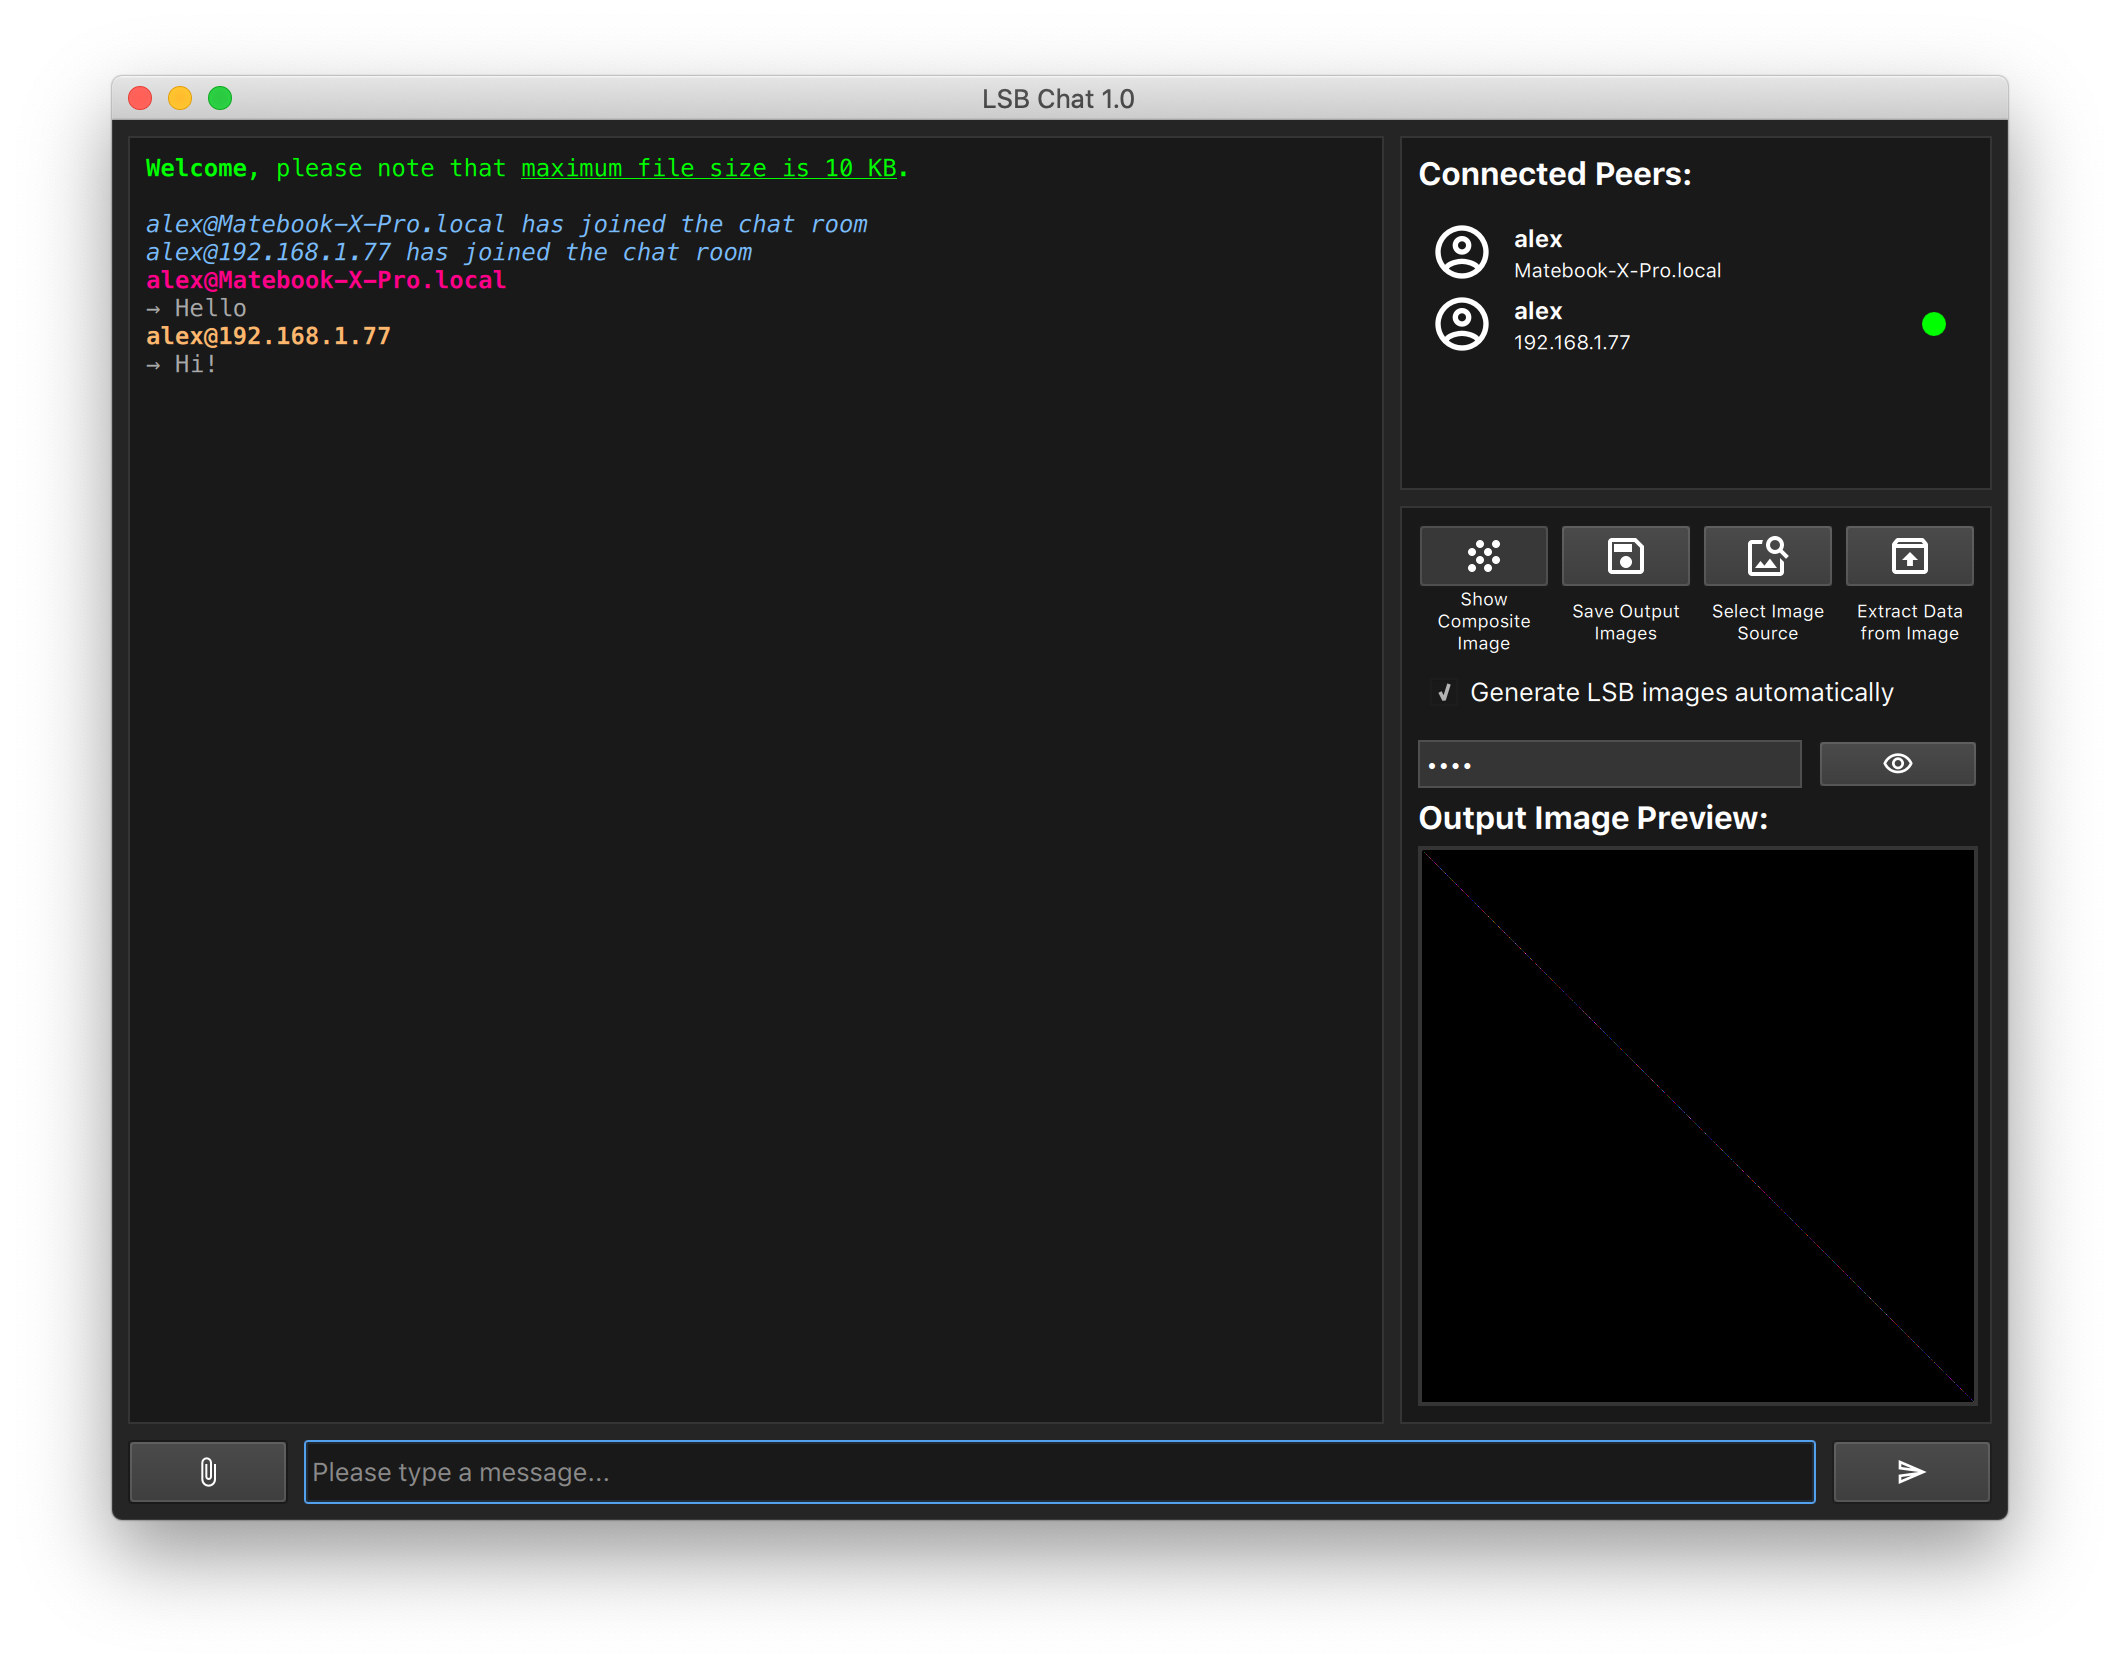
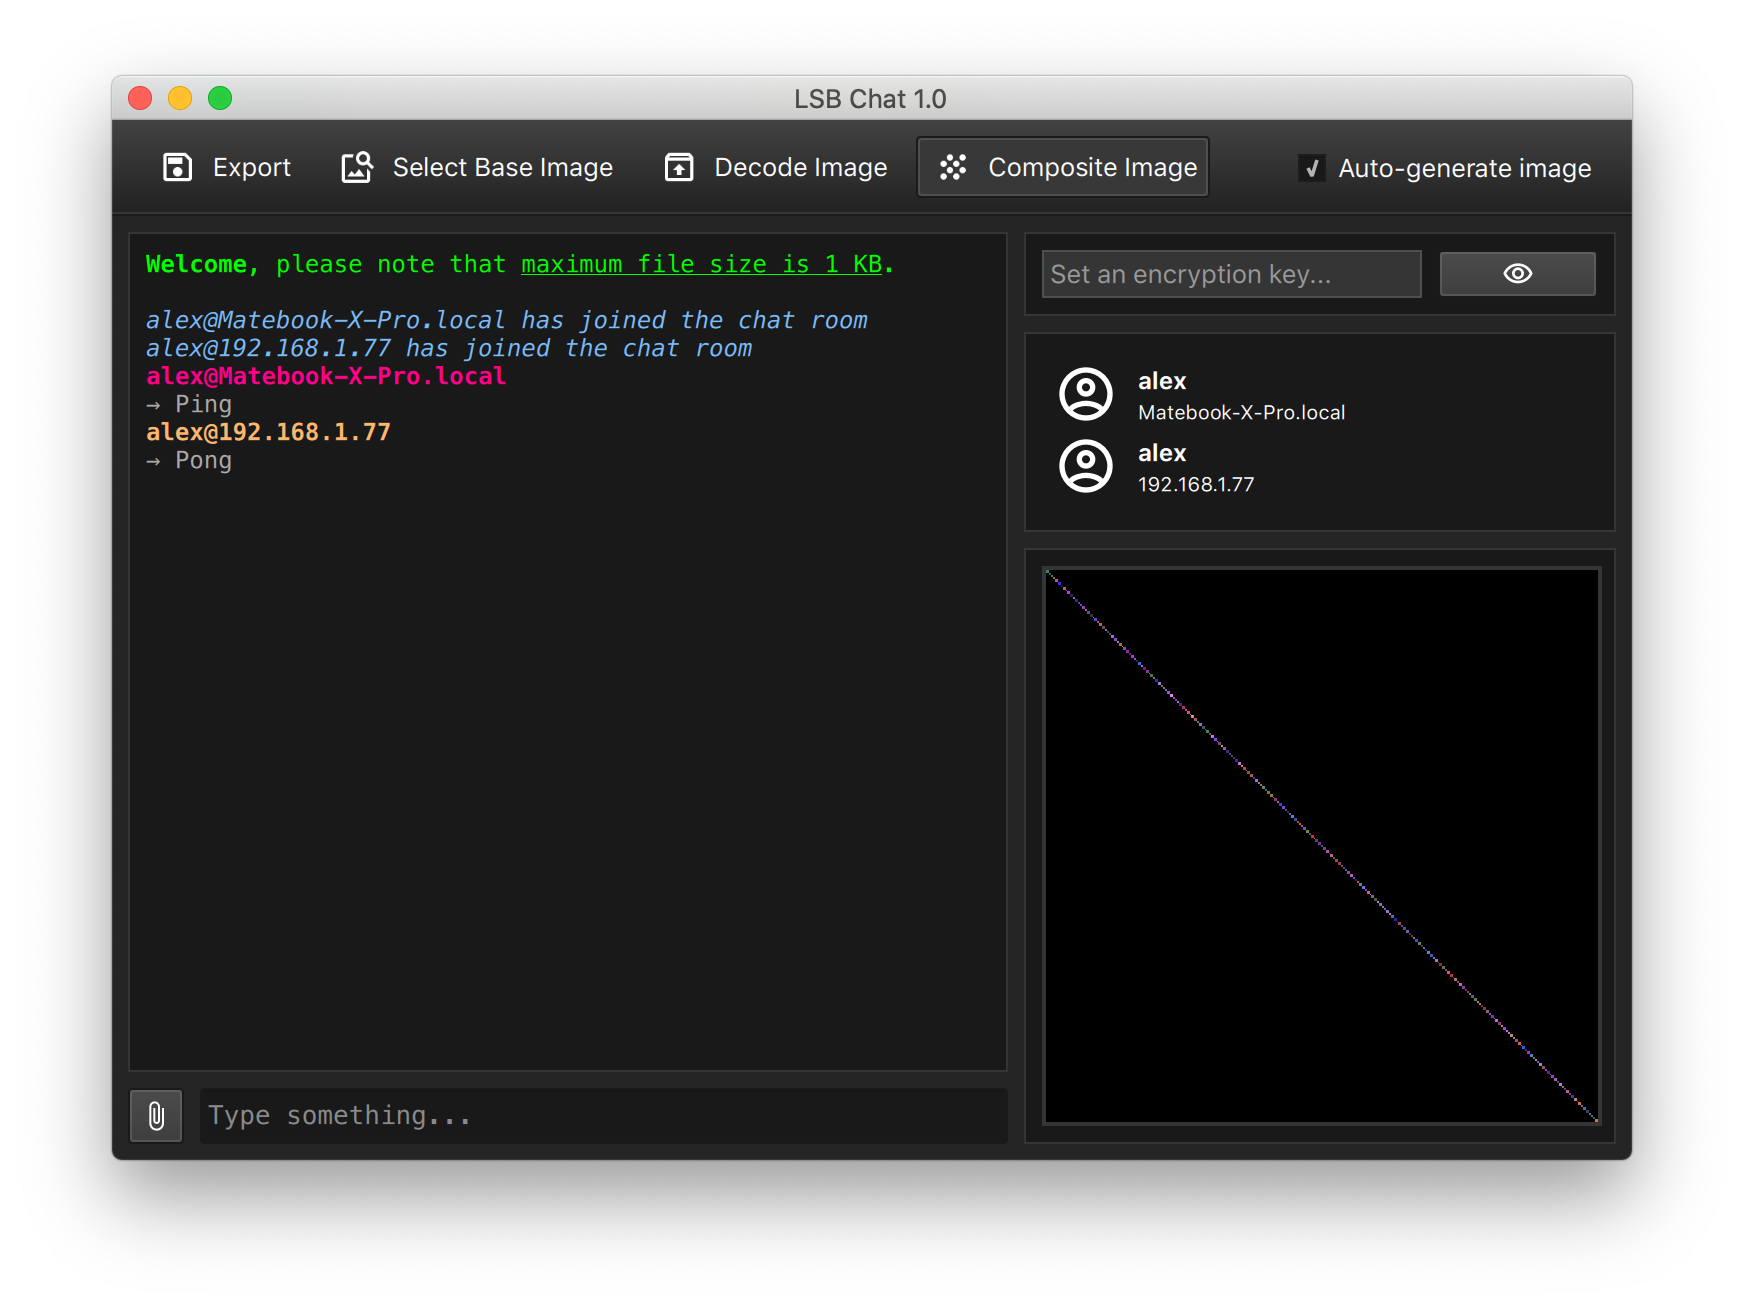
More UI updates

Changed region(s): [[0.031, 0.0306, 0.9599, 0.948], [0.4644, 0.2446, 0.4954, 0.2752]]

diff --git a/assets/qml/MainWindow.qml b/assets/qml/MainWindow.qml
@@ -38,8 +38,8 @@ ApplicationWindow {
     //
     // Window geometry
     //
-    minimumWidth: 740
-    minimumHeight: 700
+    minimumWidth: 760
+    minimumHeight: 520
 
     //
     // Window title
@@ -111,11 +111,42 @@ ApplicationWindow {
             ToolButton {
                 icon.width: 24
                 icon.height: 24
+                text: qsTr("Export")
+                Layout.fillHeight: true
+                icon.color: palette.text
+                onClicked: CBridge.saveImages()
+                icon.source: "qrc:/icons/save-24px.svg"
+            }
+
+            ToolButton {
+                icon.width: 24
+                icon.height: 24
+                Layout.fillHeight: true
+                icon.color: palette.text
+                text: qsTr("Select Base Image")
+                onClicked: CBridge.selectLsbImageSource()
+                icon.source: "qrc:/icons/image_search-24px.svg"
+            }
+
+            ToolButton {
+                icon.width: 24
+                icon.height: 24
+                Layout.fillHeight: true
+                icon.color: palette.text
+                text: qsTr("Decode Image")
+                onClicked: CBridge.extractInformation()
+                icon.source: "qrc:/icons/unarchive-24px.svg"
+            }
+
+
+            ToolButton {
+                icon.width: 24
+                icon.height: 24
                 checkable: true
                 Layout.fillHeight: true
                 icon.color: palette.text
-                text: checked ? qsTr("Show Composite Image") :
-                                qsTr("Show Differential Image")
+                text: checked ? qsTr("Composite Image") :
+                                qsTr("Differential Image")
                 icon.source: checked ? "qrc:/icons/grain-24px.svg" :
                                        "qrc:/icons/show_chart-24px.svg"
                 onCheckedChanged: {
@@ -126,43 +157,13 @@ ApplicationWindow {
                 }
             }
 
-            ToolButton {
-                icon.width: 24
-                icon.height: 24
-                Layout.fillHeight: true
-                icon.color: palette.text
-                text: qsTr("Export Image")
-                onClicked: CBridge.saveImages()
-                icon.source: "qrc:/icons/save-24px.svg"
-            }
-
-            ToolButton {
-                icon.width: 24
-                icon.height: 24
-                Layout.fillHeight: true
-                icon.color: palette.text
-                text: qsTr("Select LSB source image")
-                onClicked: CBridge.selectLsbImageSource()
-                icon.source: "qrc:/icons/image_search-24px.svg"
-            }
-
-            ToolButton {
-                icon.width: 24
-                icon.height: 24
-                Layout.fillHeight: true
-                icon.color: palette.text
-                onClicked: CBridge.extractInformation()
-                text: qsTr("Extract Information from Image")
-                icon.source: "qrc:/icons/unarchive-24px.svg"
-            }
-
             Item {
                 Layout.fillWidth: true
             }
 
             CheckBox {
                 id: generateLsbImagesCheck
-                text: qsTr("Generate LSB images automatically")
+                text: qsTr("Auto-generate image")
                 onCheckedChanged: CBridge.enableGeneratedImages(checked)
 
                 Connections {

diff --git a/assets/qml/Widgets/ChatTextBox.qml b/assets/qml/Widgets/ChatTextBox.qml
@@ -43,9 +43,10 @@ RowLayout {
     // Attach button
     //
     Button {
+        Layout.maximumWidth: height
         Layout.fillHeight: true
-        icon.color: palette.buttonText
         onClicked: CBridge.sendFile()
+        icon.color: palette.buttonText
         Layout.alignment: Qt.AlignVCenter
         icon.source: "qrc:/icons/attach_file-24px.svg"
     }
@@ -59,7 +60,7 @@ RowLayout {
         Layout.fillHeight: true
         onAccepted: messageSent(text)
         Layout.alignment: Qt.AlignVCenter
-        placeholderText: qsTr("Please type a message") + "..."
+        placeholderText: qsTr("Type something") + "..."
         font.family: {
             switch (Qt.platform.os.toString()) {
             case "osx":
